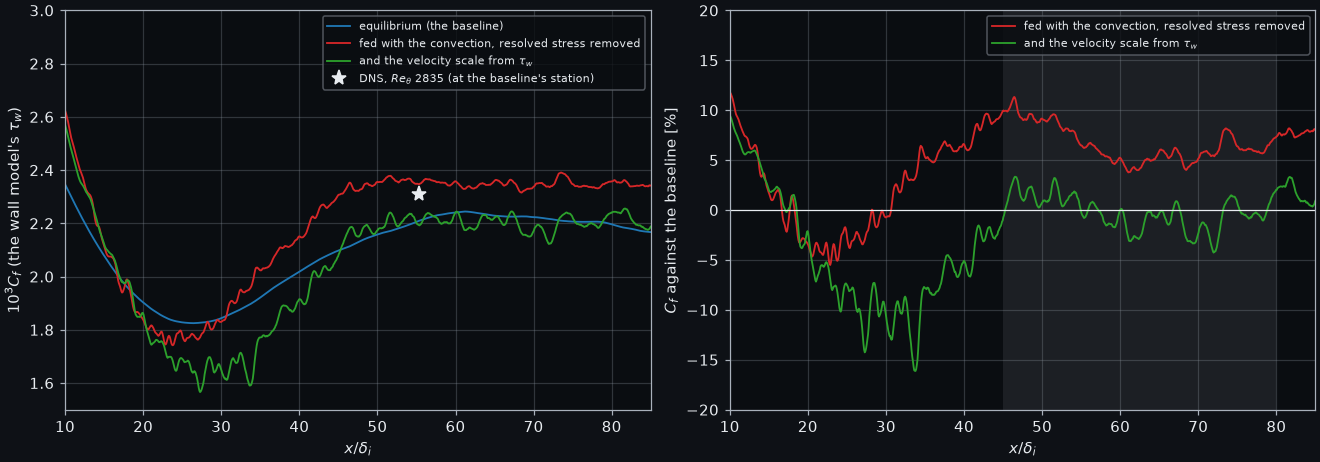
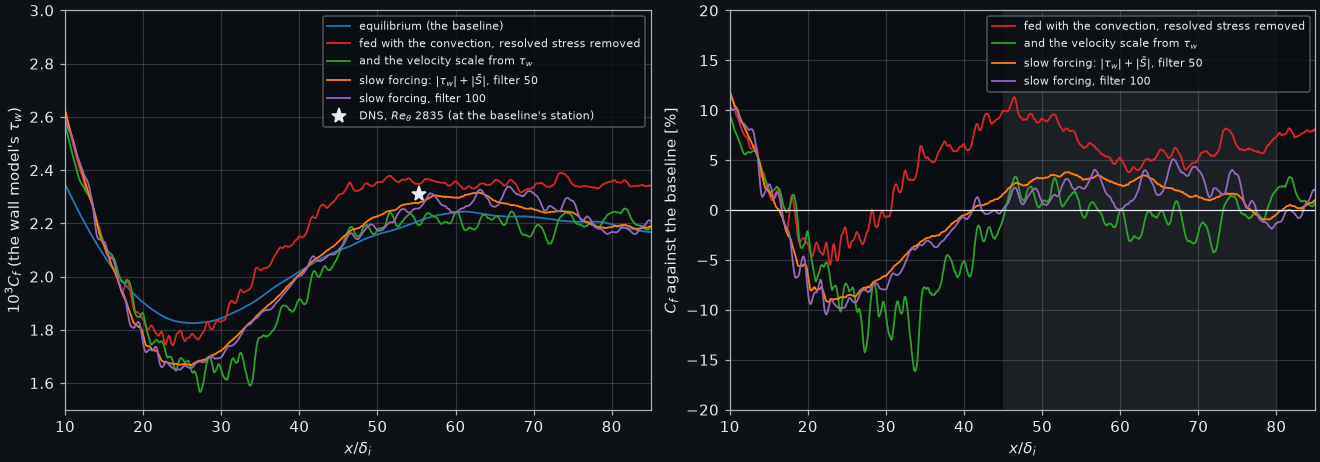
docs(flume): the slow-forcing wall model on the zero-gradient layer: within 2 % with the forcing filtered over 100 (#121)
P4b item 2, the zero-gradient gate of the slow-forcing model: T-rs (the Mach 2.5 layer m2p5-wm-l90,
t 540, its .wmf with the filter-10 averages) restarted with wall_model_resolved_stress,
wall_model_velocity_scale = sum and the forcing filter (wall_model_pressure_gradient_filter) 50 or 100,
to t 900, statistics over the 34 checkpoints of 720 < t <= 900 (tbl_oracle.py compare).

- C_f over the developed stretch 45 <= x <= 80 against the baseline (the equilibrium model): f50
  +2.2 % (-1.0..+3.8 along x), f100 +1.9 % (-1.9..+5.1), against rs's +6.6 % (filter 10): the filter
  does most of the work between 10 and 50. With the 2 % criterion fixed before the runs, f100 passes
  and f50 falls 0.2 % short, within the scatter (the first 20 checkpoints gave +0.4, +0.8).
- At the station against the DNS: -1.7 % (f50), -2.4 % (f100), the baseline -4.3 %.
- The recovery from the inflow (20 <= x < 40): -5.6, -6.2 % (rs2 -8.6).

Docs: boundary-layer.md "The wall model fed with the resolved convection": setup row, the table with
f50 and f100, a bullet; figure tbl-convection (light and dark) with the two runs.

New OpenACC/OpenMP directives: none (no Fortran changed).

Gate: ruff check make_doc_figures.py; vitepress build of the snapshot. Evidence: medooza prod-gn job
1367613 (two nodes, one run per node, 6 h, exit 0), dev-gn job 1367614 (compare), interims 1367619
(t >= 650) and 1367621 (t >= 720).

diff --git a/src/tests/flume/verification/make_doc_figures.py b/src/tests/flume/verification/make_doc_figures.py
@@ -3312,13 +3312,16 @@ def fig_sbli_scales(out: Path, runs: Path) -> None:
 def fig_tbl_convection(out: Path, runs: Path) -> None:
     """#121 P3: the zero-gradient gate of the convection-fed wall model on the Mach 2.5 boundary layer of #119 T3.7 (m2p5-wm-l90): the baseline
     (the equilibrium model, t 180-360) and its restarts at t 360 to 540 (statistics t >= 400) fed with the resolved convection with the resolved
-    shear stress removed (rs) and with the velocity scale from tau_w as well (rs2). Data: the tbl_oracle.py compare JSONs
-    <runs>/tbl/m2p5-wm-l90-{base,rs,rs2}-compare.json. Left: C_f (the wall model's tau_w) against x, the DNS at its station; right: the ratio
+    shear stress removed (rs) and with the velocity scale from tau_w as well (rs2); P4b: rs restarted at t 540 to 900 (statistics t >= 720)
+    with the slow forcing, the scale |tau_w| + |S| and the forcing filter 50 or 100 (f50, f100, when their JSONs exist). Data: the
+    tbl_oracle.py compare JSONs <runs>/tbl/m2p5-wm-l90-{base,rs,rs2,f50,f100}-compare.json. Left: C_f (the wall model's tau_w) against x, the DNS at its station; right: the ratio
     to the baseline."""
     import json  # noqa: PLC0415
 
     cases = (("base", "C0", "equilibrium (the baseline)"), ("rs", "C3", "fed with the convection, resolved stress removed"),
-             ("rs2", "C2", "and the velocity scale from $\\tau_w$"))
+             ("rs2", "C2", "and the velocity scale from $\\tau_w$"), ("f50", "C1", "slow forcing: $|\\tau_w|+|\\bar S|$, filter 50"),
+             ("f100", "C4", "slow forcing, filter 100"))
+    cases = tuple(c for c in cases if (runs / "tbl" / f"m2p5-wm-l90-{c[0]}-compare.json").exists())
     js = {k: json.loads((runs / "tbl" / f"m2p5-wm-l90-{k}-compare.json").read_text()) for k, _, _ in cases}
     fig, axs = plt.subplots(1, 2, figsize=(12.0, 4.2), constrained_layout=True)
     xb, cb = np.array(js["base"]["x"]), np.array(js["base"]["cf"])

diff --git a/docs/applications/flume/verification/turbulence/boundary-layer.md b/docs/applications/flume/verification/turbulence/boundary-layer.md
@@ -245,17 +245,19 @@ raised the $C_f$ of the interaction's incoming layer by 5 to 12 % ([interaction]
 | rs | the resolved shear stress removed from the forcing, the velocity scale of the eddy viscosity $\sqrt{(|\tau_w|+|S|)/\rho}$ (an intermediate build) |
 | rs2 | the key's model: the resolved stress removed and the velocity scale $\sqrt{|\tau_w|/\rho}$ |
 | a priori | `wmf_apriori.py` on the filtered averages of rs's `.wmf` (77760 wall columns): the model's variants on the same samples |
+| f50, f100 | the slow forcing: rs restarted at $t=540$ to 900 with `wall_model_velocity_scale = sum` (the scale $\sqrt{(\lvert\tau_w\rvert+\lvert S\rvert)/\rho}$, the resolved stress removed) and the forcing filter 50 or 100 (`wall_model_pressure_gradient_filter`, against rs's 10); statistics over the 34 checkpoints of $720<t\le900$; one prod-gn job, a run per node, 6 h |
 
 ![The convection-fed wall model on the Mach 2.5 zero-gradient layer](/flume/tbl-convection.png)
 
 *Left: $C_f$ from the wall model's $\tau_w$, the DNS at the baseline's station; right: the ratio to the baseline,
-the stretch $45\le x\le80$ shaded. `make_doc_figures.py --only tbl-convection`.*
+the stretch $45\le x\le80$ shaded; rs, rs2 and the slow forcing f50, f100. `make_doc_figures.py --only tbl-convection`.*
 
-| | baseline | rs | rs2 |
-|---|---|---|---|
-| $C_f$ at the station ($Re_\theta=2835$) against the DNS | $-4.3$ % | $+2.5$ % | **$-4.4$ %** |
-| $C_f$ over $45\le x\le80$ against the baseline | | $+6.6$ % | **$-0.3$ %** |
-| $C_f$ over $20\le x<40$ (the recovery from the inflow) against the baseline | | $+0.8$ % | $-8.6$ % |
+| | baseline | rs | rs2 | f50 | f100 |
+|---|---|---|---|---|---|
+| $C_f$ at the station ($Re_\theta=2835$) against the DNS | $-4.3$ % | $+2.5$ % | **$-4.4$ %** | $-1.7$ % | $-2.4$ % |
+| $C_f$ over $45\le x\le80$ against the baseline | | $+6.6$ % | **$-0.3$ %** | $+2.2$ % | **$+1.9$ %** |
+| the same, range along $x$ | | $+3.8$ to $+11.3$ % | $-4.3$ to $+3.3$ % | $-1.0$ to $+3.8$ % | $-1.9$ to $+5.1$ % |
+| $C_f$ over $20\le x<40$ (the recovery from the inflow) against the baseline | | $+0.8$ % | $-8.6$ % | $-5.6$ % | $-6.2$ % |
 
 | a priori, mean $\tau_w$ against the equilibrium model | |
 |---|---|
@@ -274,6 +276,13 @@ the stretch $45\le x\le80$ shaded. `make_doc_figures.py --only tbl-convection`.*
 - **Where the layer recovers from the inflow it is lower.** Over $20\le x<40$, behind the digital-filter inflow, rs2's
   $C_f$ is 8.6 % below the baseline's: there the resolved convection does not vanish, and the model answers to it. The
   DNS station lies beyond, so which of the two is right there is not measured.
+- **The slow forcing keeps the layer within about 2 %.** With the scale $|\tau_w|+|S|$ (which keeps the eddy viscosity under an
+  adverse gradient, [interaction](../streams/sbli#a-priori-the-velocity-scale-of-the-eddy-viscosity)) and a forcing filtered over 50
+  or 100 instead of 10, the developed stretch sits $+2.2$ and $+1.9$ % above the baseline, against rs's $+6.6$ %: the filter does
+  most of the work between 10 and 50, little beyond (the a priori limit of an infinite filter, $+1.7$ and $-0.7$ %, is near). With
+  the criterion of 2 % fixed before the runs, f100 passes and f50 falls 0.2 % short, a difference within the scatter along $x$ (the
+  first 20 checkpoints of the same window gave $+0.4$ and $+0.8$ %). Both move the station toward the DNS ($-1.7$, $-2.4$ % against
+  the baseline's $-4.3$ %).
 
 ## Not done
 
